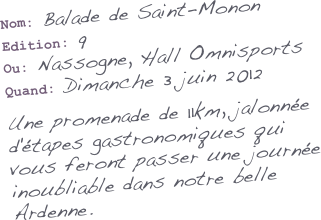
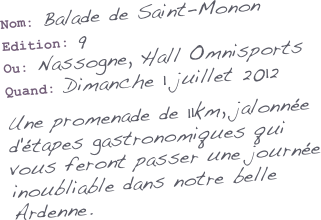
date 2012 updated and album 2011 added

Changed region(s): [[0.4984, 0.3, 0.8723, 0.4364]]

diff --git a/public/En_bref.html b/public/En_bref.html
@@ -6,7 +6,7 @@
   <head><meta http-equiv="Content-Type" content="text/html; charset=UTF-8" />
     
     <meta name="Generator" content="iWeb 3.0.4" />
-    <meta name="iWeb-Build" content="local-build-20111106" />
+    <meta name="iWeb-Build" content="local-build-20111210" />
     <meta http-equiv="X-UA-Compatible" content="IE=EmulateIE7" />
     <meta name="viewport" content="width=700" />
     <title>La Balade de Saint-Monon</title>
@@ -65,8 +65,8 @@ new NavBar('widget0', 'Scripts/Widgets/Navbar', 'Scripts/Widgets/SharedResources
           </div>
           <div style="margin-left: 0px; position: relative; width: 700px; z-index: 5; " id="body_layer">
             <div style="height: 0px; line-height: 0px; " class="bumper"> </div>
-            <div id="id1" style="height: 830px; left: 406px; position: absolute; top: 77px; width: 277px; z-index: 1; " class="style_SkipStroke_1 shape-with-text stroke_0">
-              <div class="text-content style_External_275_828" style="padding: 1px; ">
+            <div id="id1" style="height: 887px; left: 406px; position: absolute; top: 77px; width: 277px; z-index: 1; " class="style_SkipStroke_1 shape-with-text stroke_0">
+              <div class="text-content style_External_275_885" style="padding: 1px; ">
                 <div class="style">
                   <p style="padding-top: 0pt; " class="Heading_2"><br /></p>
                   <p class="Heading_2"><br /></p>
@@ -77,7 +77,10 @@ new NavBar('widget0', 'Scripts/Widgets/Navbar', 'Scripts/Widgets/SharedResources
                   <p class="Heading_2"><br /></p>
                   <p class="Heading_2"><br /></p>
                   <p class="paragraph_style">Les photos des éditions précédentes<br /></p>
-                  <p class="Body_Small"><br /></p>
+                  <p class="Body_Small">    <a onclick="window.open(this.href); return false;" title="https://picasaweb.google.com/103241826292491841587/8emeEditionDeLaBGDeStMonon" href="https://picasaweb.google.com/103241826292491841587/8emeEditionDeLaBGDeStMonon" onkeypress="window.open(this.href); return false;"><br /></a></p>
+                  <p class="Body_Small"><a onclick="window.open(this.href); return false;" title="https://picasaweb.google.com/103241826292491841587/8emeEditionDeLaBGDeStMonon" href="https://picasaweb.google.com/103241826292491841587/8emeEditionDeLaBGDeStMonon" onkeypress="window.open(this.href); return false;">    Edition 8<br /></a></p>
+                  <p class="Body_Small"><a onclick="window.open(this.href); return false;" title="https://picasaweb.google.com/103241826292491841587/8emeEditionDeLaBGDeStMonon" href="https://picasaweb.google.com/103241826292491841587/8emeEditionDeLaBGDeStMonon" onkeypress="window.open(this.href); return false;">    29 mai 2011</a><br /></p>
+                  <p class="Body_Small">    <br /></p>
                   <p class="Body_Small">    <a title="https://picasaweb.google.com/biermonfoy/7emeEditionDeLaBGStMonon#" href="https://picasaweb.google.com/biermonfoy/7emeEditionDeLaBGStMonon#">Edition 7<br /></a></p>
                   <p class="Body_Small"><a title="https://picasaweb.google.com/biermonfoy/7emeEditionDeLaBGStMonon#" href="https://picasaweb.google.com/biermonfoy/7emeEditionDeLaBGStMonon#">    juin 2010</a>    <br /></p>
                   <p class="Body_Small"><br /></p>
@@ -146,7 +149,7 @@ new NavBar('widget0', 'Scripts/Widgets/Navbar', 'Scripts/Widgets/SharedResources
 
             <div style="height: 286px; width: 353px;  height: 286px; left: 76px; position: absolute; top: 377px; width: 353px; z-index: 1; " class="tinyText">
               <div style="position: relative; width: 353px; ">
-                <img src="En_bref_files/shapeimage_5.png" alt="Nom: Balade de Saint-Monon&#10;Edition: 9&#10;Ou: Nassogne, Hall Omnisports&#10;Quand: Dimanche 3 juin 2012&#10;&#10;Une promenade de 11km, jalonnée d'étapes gastronomiques qui vous feront passer une journée inoubliable dans notre belle Ardenne." style="height: 220px; left: 0px; margin-left: 5px; margin-top: 20px; position: absolute; top: 0px; width: 321px; " />
+                <img src="En_bref_files/shapeimage_5.png" alt="Nom: Balade de Saint-Monon&#10;Edition: 9&#10;Ou: Nassogne, Hall Omnisports&#10;Quand: Dimanche 1 juillet 2012&#10;&#10;Une promenade de 11km, jalonnée d'étapes gastronomiques qui vous feront passer une journée inoubliable dans notre belle Ardenne." style="height: 220px; left: 0px; margin-left: 5px; margin-top: 20px; position: absolute; top: 0px; width: 321px; " />
               </div>
             </div>
             
@@ -245,7 +248,7 @@ new NavBar('widget0', 'Scripts/Widgets/Navbar', 'Scripts/Widgets/SharedResources
                 <img src="En_bref_files/shapeimage_15.png" alt="" style="height: 127px; left: 0px; margin-left: 64px; margin-top: 6px; position: absolute; top: 0px; width: 32px; " />
               </div>
             </div>
-            <div style="height: 907px; line-height: 907px; " class="spacer"> </div>
+            <div style="height: 964px; line-height: 964px; " class="spacer"> </div>
           </div>
           <div style="height: 50px; margin-left: 0px; position: relative; width: 700px; z-index: 15; " id="footer_layer">
             <div style="height: 0px; line-height: 0px; " class="bumper"> </div>

diff --git a/public/En_bref_files/En_bref.js b/public/En_bref_files/En_bref.js
@@ -1,4 +1,4 @@
-// Created by iWeb 3.0.4 local-build-20111106
+// Created by iWeb 3.0.4 local-build-20111210
 
 setTransparentGifURL('Media/transparent.gif');function applyEffects()
 {var registry=IWCreateEffectRegistry();registry.registerEffects({stroke_0:new IWPhotoFrame([IWCreateImage('En_bref_files/receipt_top_01.png'),IWCreateImage('En_bref_files/receipt_top_02.png'),IWCreateImage('En_bref_files/receipt_top_03.png'),IWCreateImage('En_bref_files/receipt_side_02.png'),IWCreateImage('En_bref_files/receipt_bottom_03.png'),IWCreateImage('En_bref_files/receipt_bottom_02.png'),IWCreateImage('En_bref_files/receipt_bottom_01.png'),IWCreateImage('En_bref_files/receipt_side_01.png')],null,2,1.000000,0.000000,2.000000,0.000000,8.000000,1.000000,9.000000,1.000000,41.000000,1.000000,275.000000,1.000000,275.000000,null,null,null,0.500000),shadow_0:new IWShadow({blurRadius:3,offset:new IWPoint(4.2426,4.2426),color:'#000000',opacity:0.440000}),shadow_1:new IWShadow({blurRadius:3,offset:new IWPoint(4.2426,4.2426),color:'#000000',opacity:0.440000})});registry.applyEffects();}

diff --git a/public/En_details_files/En_details.js b/public/En_details_files/En_details.js
@@ -1,7 +1,7 @@
-// Created by iWeb 3.0.4 local-build-20111106
+// Created by iWeb 3.0.4 local-build-20111210
 
 setTransparentGifURL('Media/transparent.gif');function applyEffects()
-{var registry=IWCreateEffectRegistry();registry.registerEffects({shadow_1:new IWShadow({blurRadius:1,offset:new IWPoint(4.9497,4.9497),color:'#000000',opacity:0.440000}),shadow_2:new IWShadow({blurRadius:3,offset:new IWPoint(4.2426,4.2426),color:'#000000',opacity:0.440000}),shadow_0:new IWShadow({blurRadius:1,offset:new IWPoint(1.4142,1.4142),color:'#000000',opacity:0.440000})});registry.applyEffects();}
+{var registry=IWCreateEffectRegistry();registry.registerEffects({shadow_0:new IWShadow({blurRadius:1,offset:new IWPoint(1.4142,1.4142),color:'#000000',opacity:0.440000}),shadow_1:new IWShadow({blurRadius:1,offset:new IWPoint(4.9497,4.9497),color:'#000000',opacity:0.440000}),shadow_2:new IWShadow({blurRadius:3,offset:new IWPoint(4.2426,4.2426),color:'#000000',opacity:0.440000})});registry.applyEffects();}
 function hostedOnDM()
 {return false;}
 function onPageLoad()

diff --git a/public/Acces_files/Acces.js b/public/Acces_files/Acces.js
@@ -1,4 +1,4 @@
-// Created by iWeb 3.0.4 local-build-20111106
+// Created by iWeb 3.0.4 local-build-20111210
 
 setTransparentGifURL('Media/transparent.gif');function applyEffects()
 {var registry=IWCreateEffectRegistry();registry.registerEffects({stroke_0:new IWPhotoFrame([IWCreateImage('Acces_files/notebook_ul.png'),IWCreateImage('Acces_files/notebook_top.png'),IWCreateImage('Acces_files/notebook_ur.png'),IWCreateImage('Acces_files/notebook_right.png'),IWCreateImage('Acces_files/notebook_lr.png'),IWCreateImage('Acces_files/notebook_bottom.png'),IWCreateImage('Acces_files/notebook_ll.png'),IWCreateImage('Acces_files/notebook_left.png')],null,0,1.000000,3.000000,2.000000,1.000000,3.000000,18.000000,16.000000,17.000000,19.000000,76.000000,123.000000,79.000000,122.000000,null,null,null,0.400000),shadow_0:new IWShadow({blurRadius:3,offset:new IWPoint(4.2426,4.2426),color:'#000000',opacity:0.440000})});registry.applyEffects();}

diff --git a/public/En_bref_files/En_bref.css b/public/En_bref_files/En_bref.css
@@ -76,10 +76,10 @@
     background: transparent;
     opacity: 1.00;
 }
-.style_External_275_828 {
-    position: relative;
-}
 .style_SkipStrokeSkipFillSkipOpacity {
+}
+.style_External_275_885 {
+    position: relative;
 }
 .style_SkipStroke {
     background: transparent;
@@ -138,7 +138,7 @@
 .graphic_textbox_layout_style_default {
     padding: 4px;
 }
-.graphic_textbox_layout_style_default_External_275_828 {
+.graphic_textbox_layout_style_default_External_275_885 {
     position: relative;
 }
 .graphic_textbox_style_default_SkipStroke {

diff --git a/public/Acces.html b/public/Acces.html
@@ -6,7 +6,7 @@
   <head><meta http-equiv="Content-Type" content="text/html; charset=UTF-8" />
     
     <meta name="Generator" content="iWeb 3.0.4" />
-    <meta name="iWeb-Build" content="local-build-20111106" />
+    <meta name="iWeb-Build" content="local-build-20111210" />
     <meta http-equiv="X-UA-Compatible" content="IE=EmulateIE7" />
     <meta name="viewport" content="width=700" />
     <title>La Balade de Saint-Monon</title>

diff --git a/public/En_details.html b/public/En_details.html
@@ -6,7 +6,7 @@
   <head><meta http-equiv="Content-Type" content="text/html; charset=UTF-8" />
     
     <meta name="Generator" content="iWeb 3.0.4" />
-    <meta name="iWeb-Build" content="local-build-20111106" />
+    <meta name="iWeb-Build" content="local-build-20111210" />
     <meta http-equiv="X-UA-Compatible" content="IE=EmulateIE7" />
     <meta name="viewport" content="width=700" />
     <title>La Balade de Saint-Monon</title>

diff --git a/public/Inscriptions.html b/public/Inscriptions.html
@@ -6,7 +6,7 @@
   <head><meta http-equiv="Content-Type" content="text/html; charset=UTF-8" />
     
     <meta name="Generator" content="iWeb 3.0.4" />
-    <meta name="iWeb-Build" content="local-build-20111106" />
+    <meta name="iWeb-Build" content="local-build-20111210" />
     <meta http-equiv="X-UA-Compatible" content="IE=EmulateIE7" />
     <meta name="viewport" content="width=700" />
     <title>La Balade de Saint-Monon</title>

diff --git a/public/Menu.html b/public/Menu.html
@@ -6,7 +6,7 @@
   <head><meta http-equiv="Content-Type" content="text/html; charset=UTF-8" />
     
     <meta name="Generator" content="iWeb 3.0.4" />
-    <meta name="iWeb-Build" content="local-build-20111106" />
+    <meta name="iWeb-Build" content="local-build-20111210" />
     <meta http-equiv="X-UA-Compatible" content="IE=EmulateIE7" />
     <meta name="viewport" content="width=700" />
     <title>La Balade de Saint-Monon</title>

diff --git a/public/Inscriptions_files/Inscriptions.js b/public/Inscriptions_files/Inscriptions.js
@@ -1,4 +1,4 @@
-// Created by iWeb 3.0.4 local-build-20111106
+// Created by iWeb 3.0.4 local-build-20111210
 
 setTransparentGifURL('Media/transparent.gif');function applyEffects()
 {var registry=IWCreateEffectRegistry();registry.registerEffects({shadow_0:new IWShadow({blurRadius:3,offset:new IWPoint(4.2426,4.2426),color:'#000000',opacity:0.440000})});registry.applyEffects();}

diff --git a/public/Menu_files/Menu.js b/public/Menu_files/Menu.js
@@ -1,4 +1,4 @@
-// Created by iWeb 3.0.4 local-build-20111106
+// Created by iWeb 3.0.4 local-build-20111210
 
 setTransparentGifURL('Media/transparent.gif');function applyEffects()
 {var registry=IWCreateEffectRegistry();registry.registerEffects({shadow_0:new IWShadow({blurRadius:3,offset:new IWPoint(4.2426,4.2426),color:'#000000',opacity:0.440000})});registry.applyEffects();}
